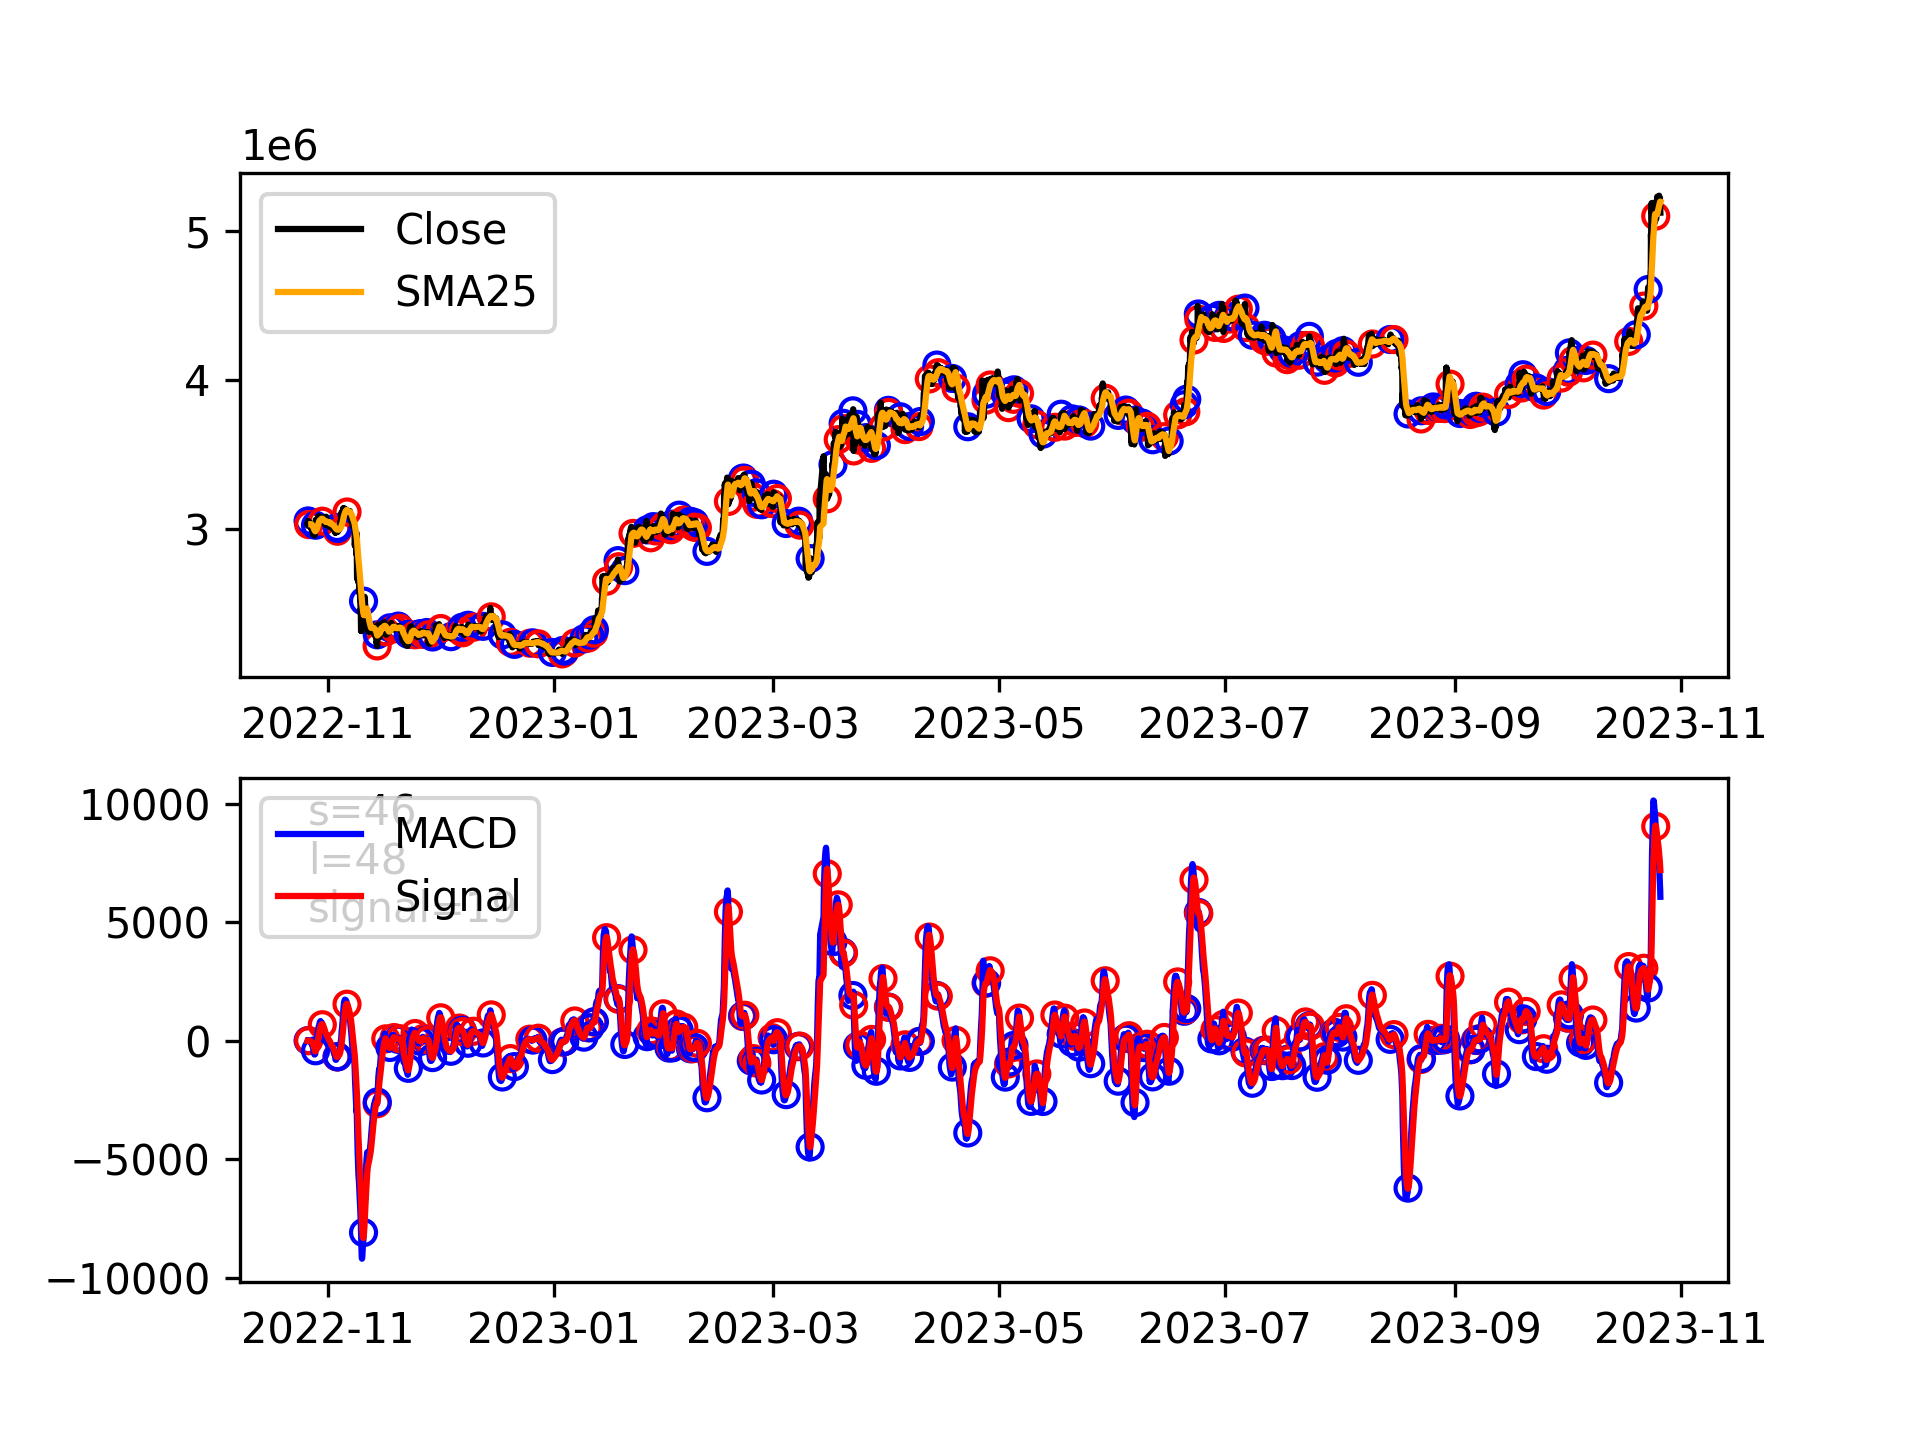
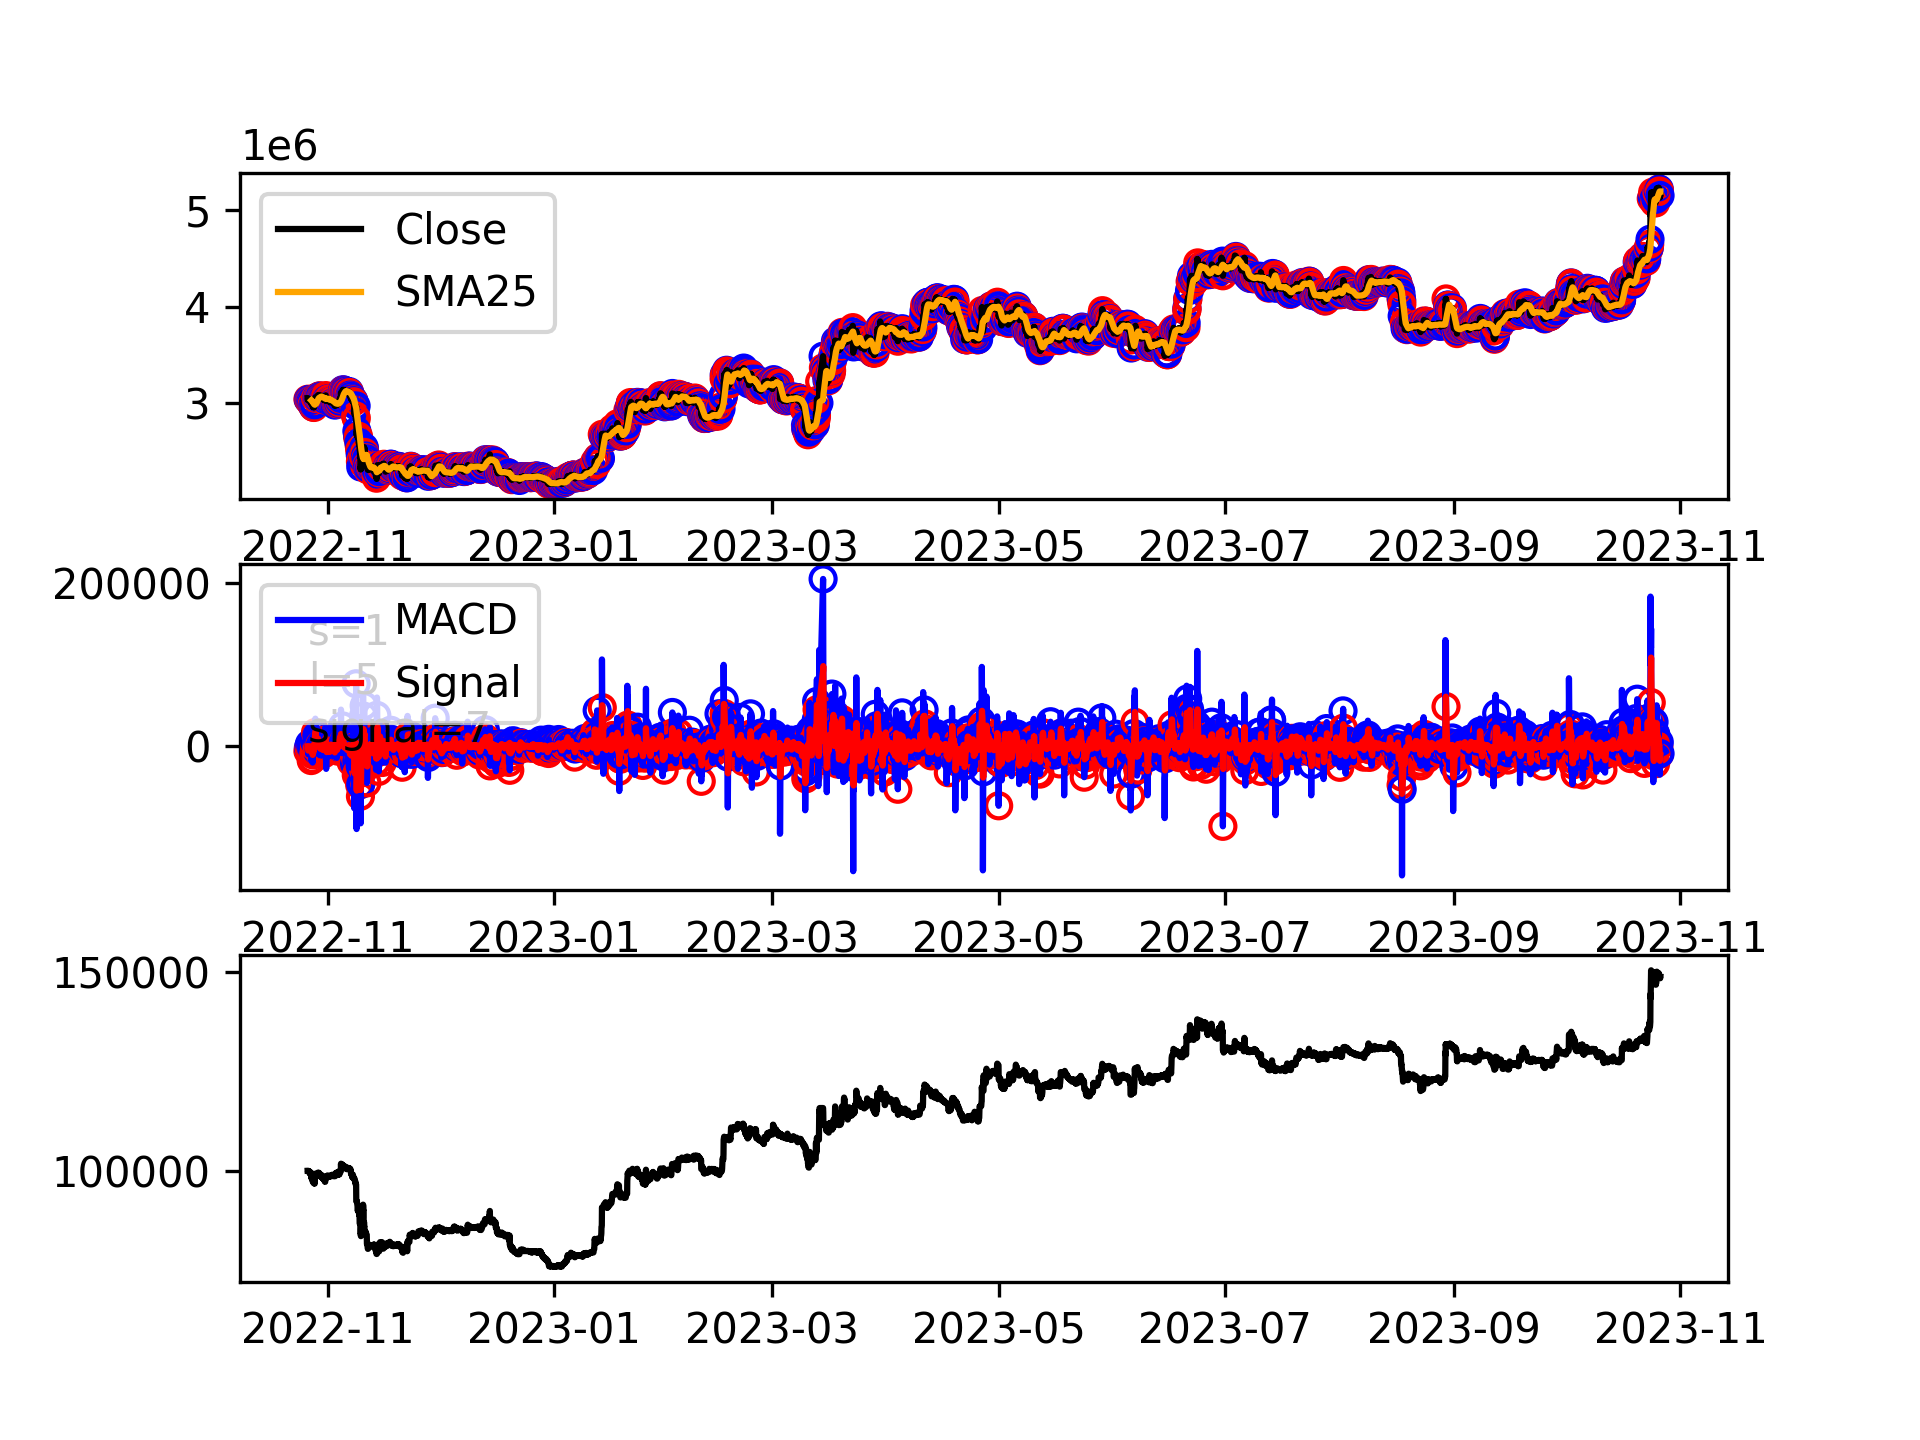
validate in assets

diff --git a/macdplot.py b/macdplot.py
@@ -3,6 +3,30 @@ import pandas as pd
 import matplotlib.pyplot as plt
 
 
+class assets:
+    yen = 0.0
+    btc = 0.0
+    def __init__(self, yen, btc_yen, rate):
+        self.yen = yen
+        self.btc = btc_yen/rate
+    def set_yen(self, yen):
+        self.yen = yen
+    def set_btc(self, btc_yen, rate):
+        self.btc = btc_yen/rate
+    def get_yen(self):
+        return self.yen
+    def get_btc(self):
+        return self.btc
+    def buy_btc_all(self, rate):
+        self.btc += self.yen/rate
+        self.yen = 0
+    def sell_btc_all(self, rate):
+        self.yen += self.btc*rate
+        self.btc = 0
+    def get_total(self, rate):
+        return self.yen + self.btc*rate
+
+
 btcjpyticker = yf.Ticker("BTC-JPY")
 hist = btcjpyticker.history(period="1y",interval="1h")
 """
@@ -11,36 +35,50 @@ print(hist.columns)
 print(hist.index)
 print(type(hist))
 """
-s = 46
-l = 48
-sig = 19
+s = 1
+l = 5
+sig = 7
+
+yen_assets = 50000.0
+btc_assets_yen = 50000.0
+myassets = assets(yen_assets,btc_assets_yen,hist.loc[:,'Close'].iloc[0])
+
 hist["EMA"+str(s)] = hist["Close"].ewm(span=s).mean()
 hist["EMA"+str(l)] = hist["Close"].ewm(span=l).mean()
 hist["SMA25"] = hist["Close"].rolling(25).mean()
-
 hist["MACD"] = hist["EMA"+str(s)] - hist["EMA"+str(l)]
 hist["Signal"] = hist["MACD"].ewm(span=sig).mean()
 
-
 hist["g_point"] = False
 hist["s_point"] = False
+hist["yen"] = yen_assets
+hist["btc"] = btc_assets_yen
+hist["total"] = yen_assets + btc_assets_yen
+
 for i in range(len(hist.index)-1):
-    hist["g_point"].iat[i+1] = False
+    hist.loc[:,'yen'].iat[i+1] = myassets.get_yen()
+    hist.loc[:,'btc'].iat[i+1] = myassets.get_btc()
+    hist.loc[:,'total'].iat[i+1] = myassets.get_total(hist.loc[:,'Close'].iloc[i+1])
+
     if(hist.loc[:,'MACD'].iloc[i]<hist.loc[:,'Signal'].iloc[i] and hist.loc[:,'MACD'].iloc[i+1]>hist.loc[:,'Signal'].iloc[i+1]): 
         hist["g_point"].iat[i+1] = True
+        myassets.buy_btc_all(hist.loc[:,'Close'].iloc[i+1])
     elif(hist.loc[:,'MACD'].iloc[i]>hist.loc[:,'Signal'].iloc[i] and hist.loc[:,'MACD'].iloc[i+1]<hist.loc[:,'Signal'].iloc[i+1]):
         hist["s_point"].iat[i+1] = True
+        myassets.sell_btc_all(hist.loc[:,'Close'].iloc[i+1])
 
 
 fig = plt.figure()
 
-up = fig.add_subplot(2,1,1)
-down = fig.add_subplot(2,1,2)
+up = fig.add_subplot(3,1,1)
+down = fig.add_subplot(3,1,2)
+down2 = fig.add_subplot(3,1,3)
 
 up.plot(hist.index,hist["Close"],color="black")
 up.plot(hist.index,hist["SMA25"],color="orange")
 down.plot(hist.index,hist["MACD"],color="blue")
 down.plot(hist.index,hist["Signal"],color="red")
+down2.plot(hist.index,hist["total"],color="black")
 
 for i in range(len(hist.index)):
     if(hist.loc[:,'g_point'].iloc[i]):
@@ -54,6 +92,7 @@ up.legend(["Close","SMA25"])
 down.legend(["MACD","Signal"])
 
 down.text(hist.index[0],5000,"s="+str(s)+"\nl="+str(l)+'\nsignal='+str(sig),fontsize=10)
-
+print(hist.loc[:,'total'].iat[-1])
+print(myassets.get_total(hist.loc[:,'Close'].iat[-1]))
 plt.savefig("fig.png",dpi=300)
 plt.show()

diff --git a/serachMACDparam.py b/serachMACDparam.py
@@ -2,20 +2,48 @@ import yfinance as yf
 import pandas as pd
 import time
 
+class assets:
+    yen = 0.0
+    btc = 0.0
+    def __init__(self, yen, btc_yen, rate):
+        self.yen = yen
+        self.btc = btc_yen/rate
+    def set_yen(self, yen):
+        self.yen = yen
+    def set_btc(self, btc_yen, rate):
+        self.btc = btc_yen/rate
+    def get_yen(self):
+        return self.yen
+    def get_btc(self):
+        return self.btc
+    def buy_btc_all(self, rate):
+        self.btc += self.yen/rate
+        self.yen = 0
+    def sell_btc_all(self, rate):
+        self.yen += self.btc*rate
+        self.btc = 0
+    def get_total(self, rate):
+        return self.yen + self.btc*rate
+
 
 btcjpyticker = yf.Ticker("BTC-JPY")
-hist = btcjpyticker.history(period="1mo",interval="1h")
+hist = btcjpyticker.history(period="1y",interval="1h")
 
 
-columns1 =["s", "l", "signal","gold","silver"]
+columns1 =["s", "l", "signal","gold","silver","assets"]
 result = pd.DataFrame(columns=columns1)
 
+yen_assets = 50000.0
+btc_assets_yen = 50000.0
+myassets = assets(yen_assets,btc_assets_yen,hist["Close"].iloc[0])
 start = time.time()
 for l in range(5,50):
-    for s in range(1,l-1):
+    for s in range(1,l):
         for signal in range(5,20):
             countg = 0
             counts = 0
+            myassets.set_btc(btc_assets_yen,hist["Close"].iloc[0])
+            myassets.set_yen(yen_assets)
             hist["EMA"+str(s)] = hist["Close"].ewm(span=s).mean()
             hist["EMA"+str(l)] = hist["Close"].ewm(span=l).mean()
             hist["SMA25"] = hist["Close"].rolling(25).mean()
@@ -27,13 +55,16 @@ for l in range(5,50):
             for i in range(len(hist.index)-1):
                 if(hist.loc[:,'MACD'].iloc[i]<hist.loc[:,'Signal'].iloc[i] and hist.loc[:,'MACD'].iloc[i+1]>hist.loc[:,'Signal'].iloc[i+1]):
                     countg += 1
+                    myassets.buy_btc_all(hist.loc[:,'Close'].iloc[i+1])
                 elif(hist.loc[:,'MACD'].iloc[i]>hist.loc[:,'Signal'].iloc[i] and hist.loc[:,'MACD'].iloc[i+1]<hist.loc[:,'Signal'].iloc[i+1]):
                     counts += 1
-            adddata ={'s':s,'l':l,'signal':signal,'gold':countg,'silver':counts} 
+                    myassets.sell_btc_all(hist.loc[:,'Close'].iloc[i+1])
+
+            adddata ={'s':s,'l':l,'signal':signal,'gold':countg,'silver':counts,'assets':myassets.get_total(hist.loc[:,'Close'].iloc[-1])} 
             result = pd.concat([result, pd.DataFrame(adddata,index=[1])],ignore_index=True)
-            print("EMA"+str(s)+"-"+str(l)+"-"+str(signal)+": ",countg,counts)
+            print("EMA"+str(s)+"-"+str(l)+"-"+str(signal)+": ",countg,counts,myassets.get_total(hist.loc[:,'Close'].iat[-1]))
 
 print("time: ",time.time()-start)
-result_s = result.sort_values('gold')
+result_s = result.sort_values('assets',ascending=False)
 print(result_s)
 result_s.to_csv("result.csv")
